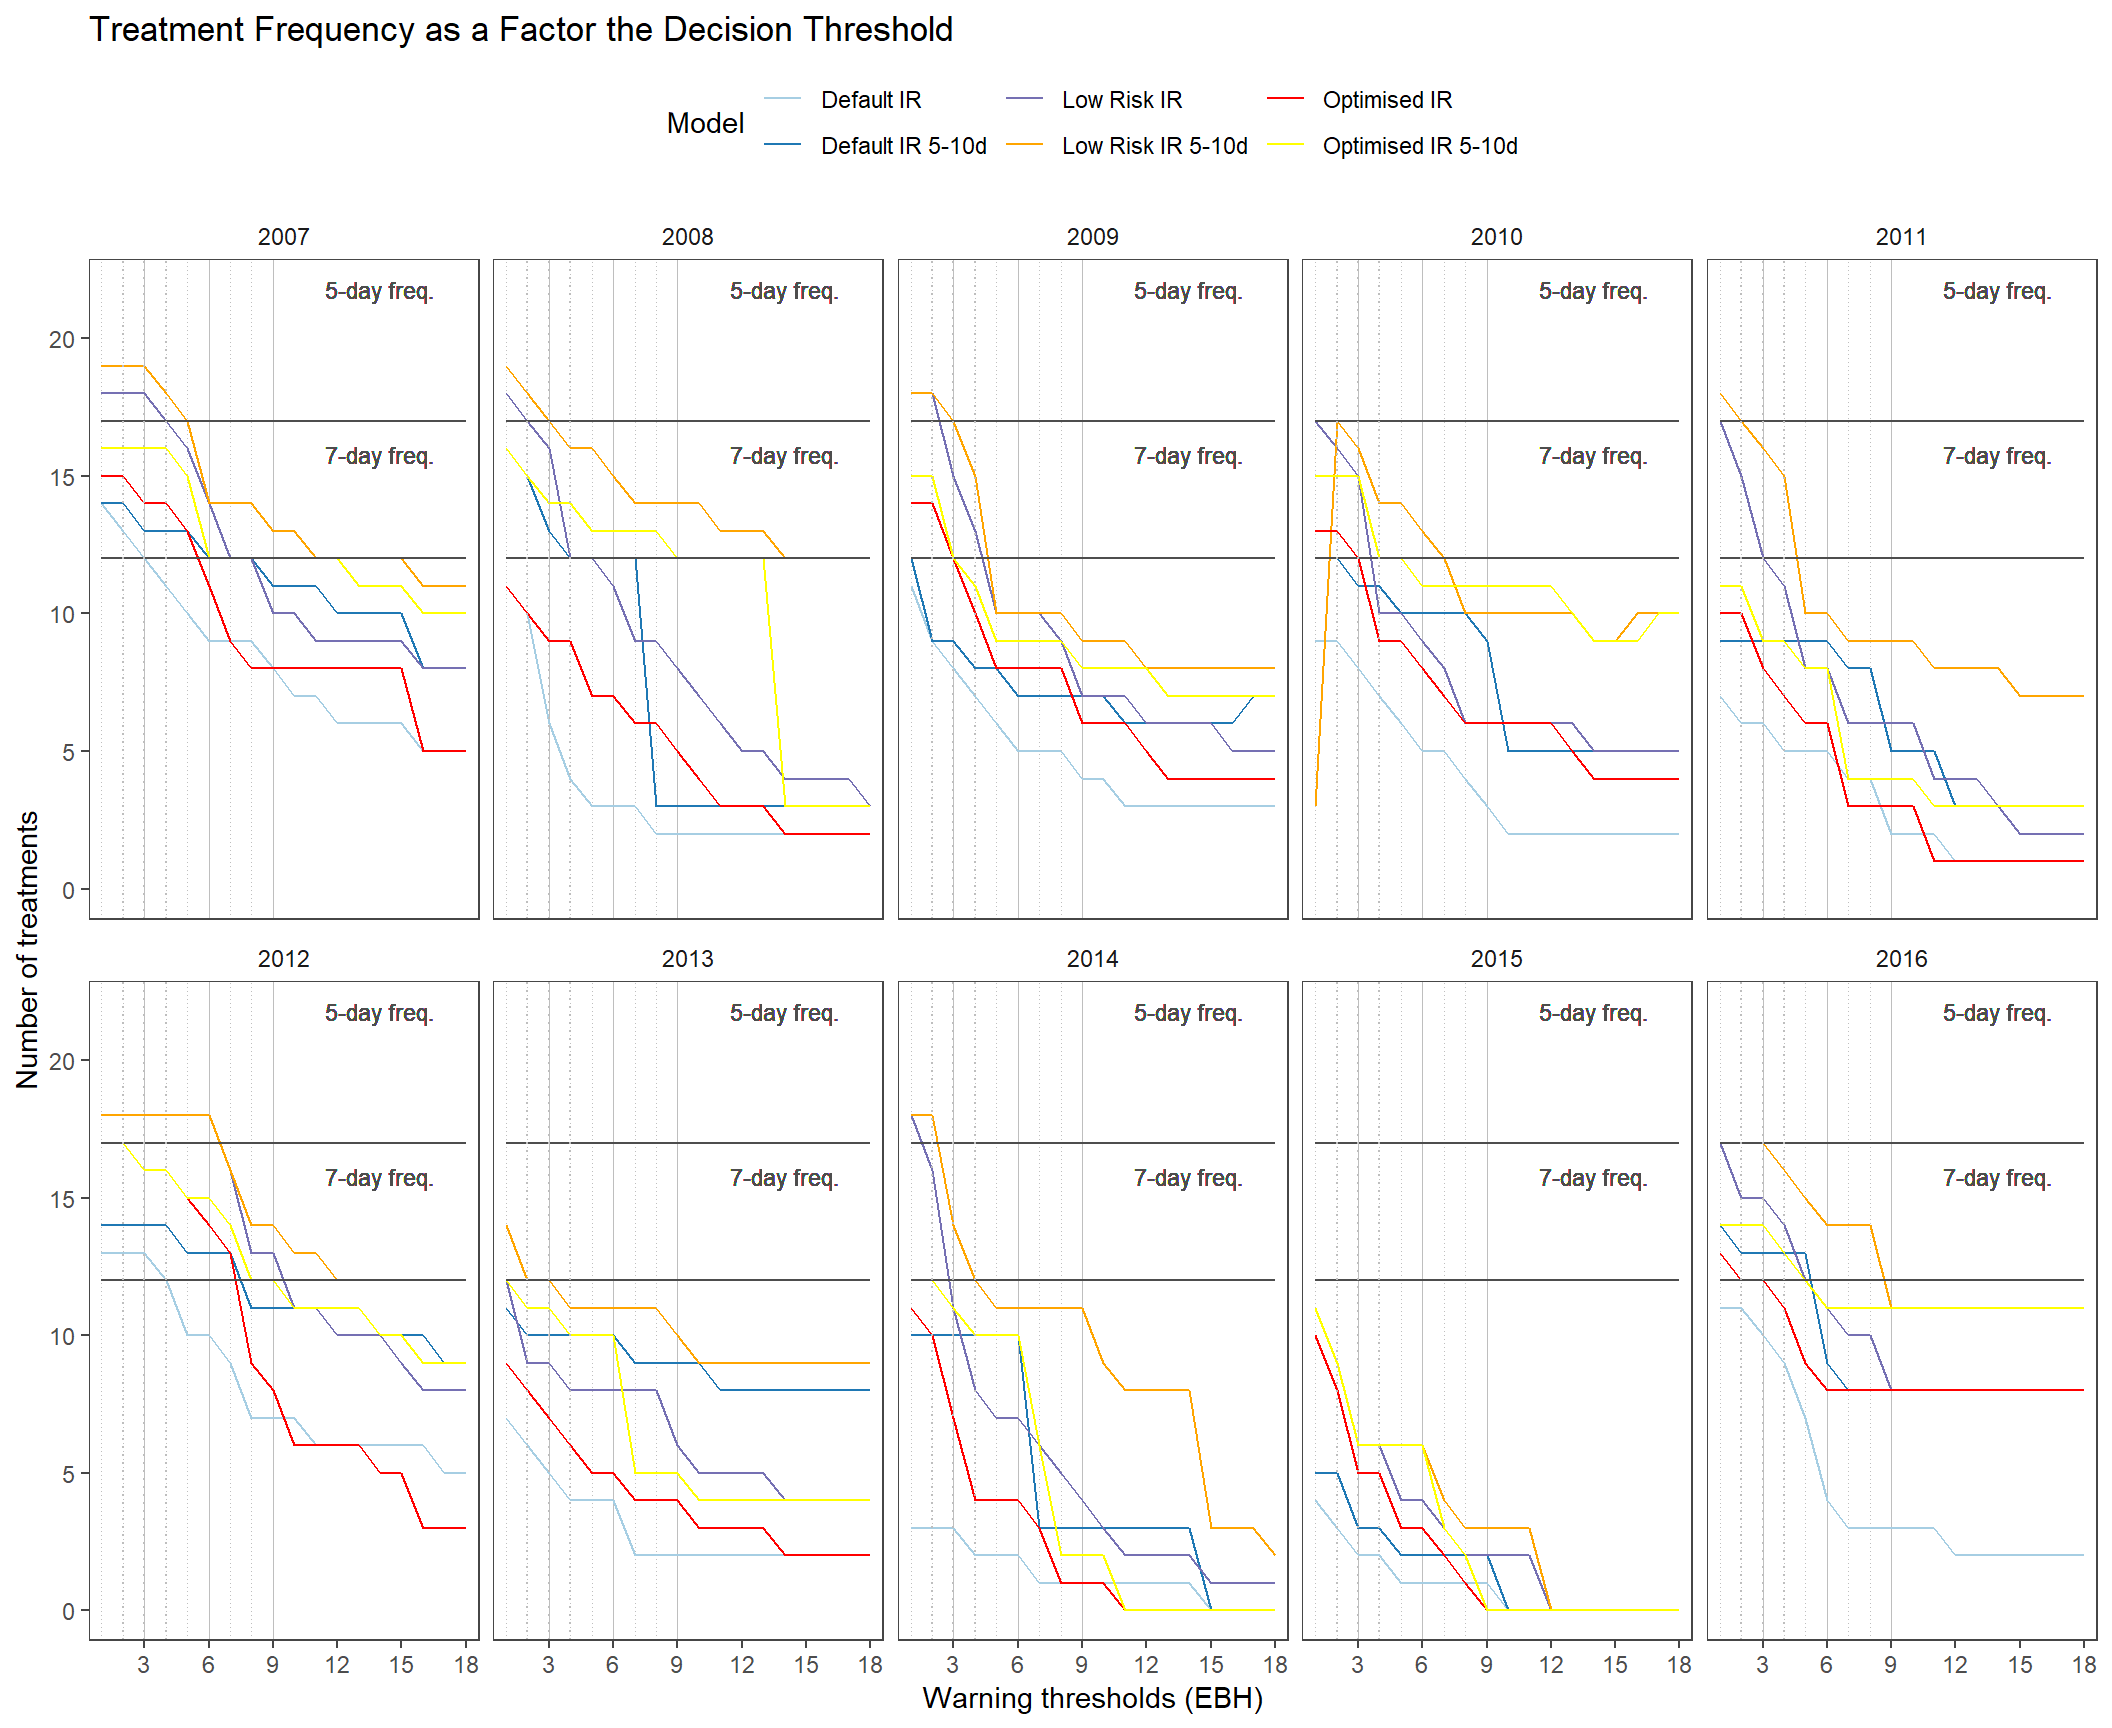
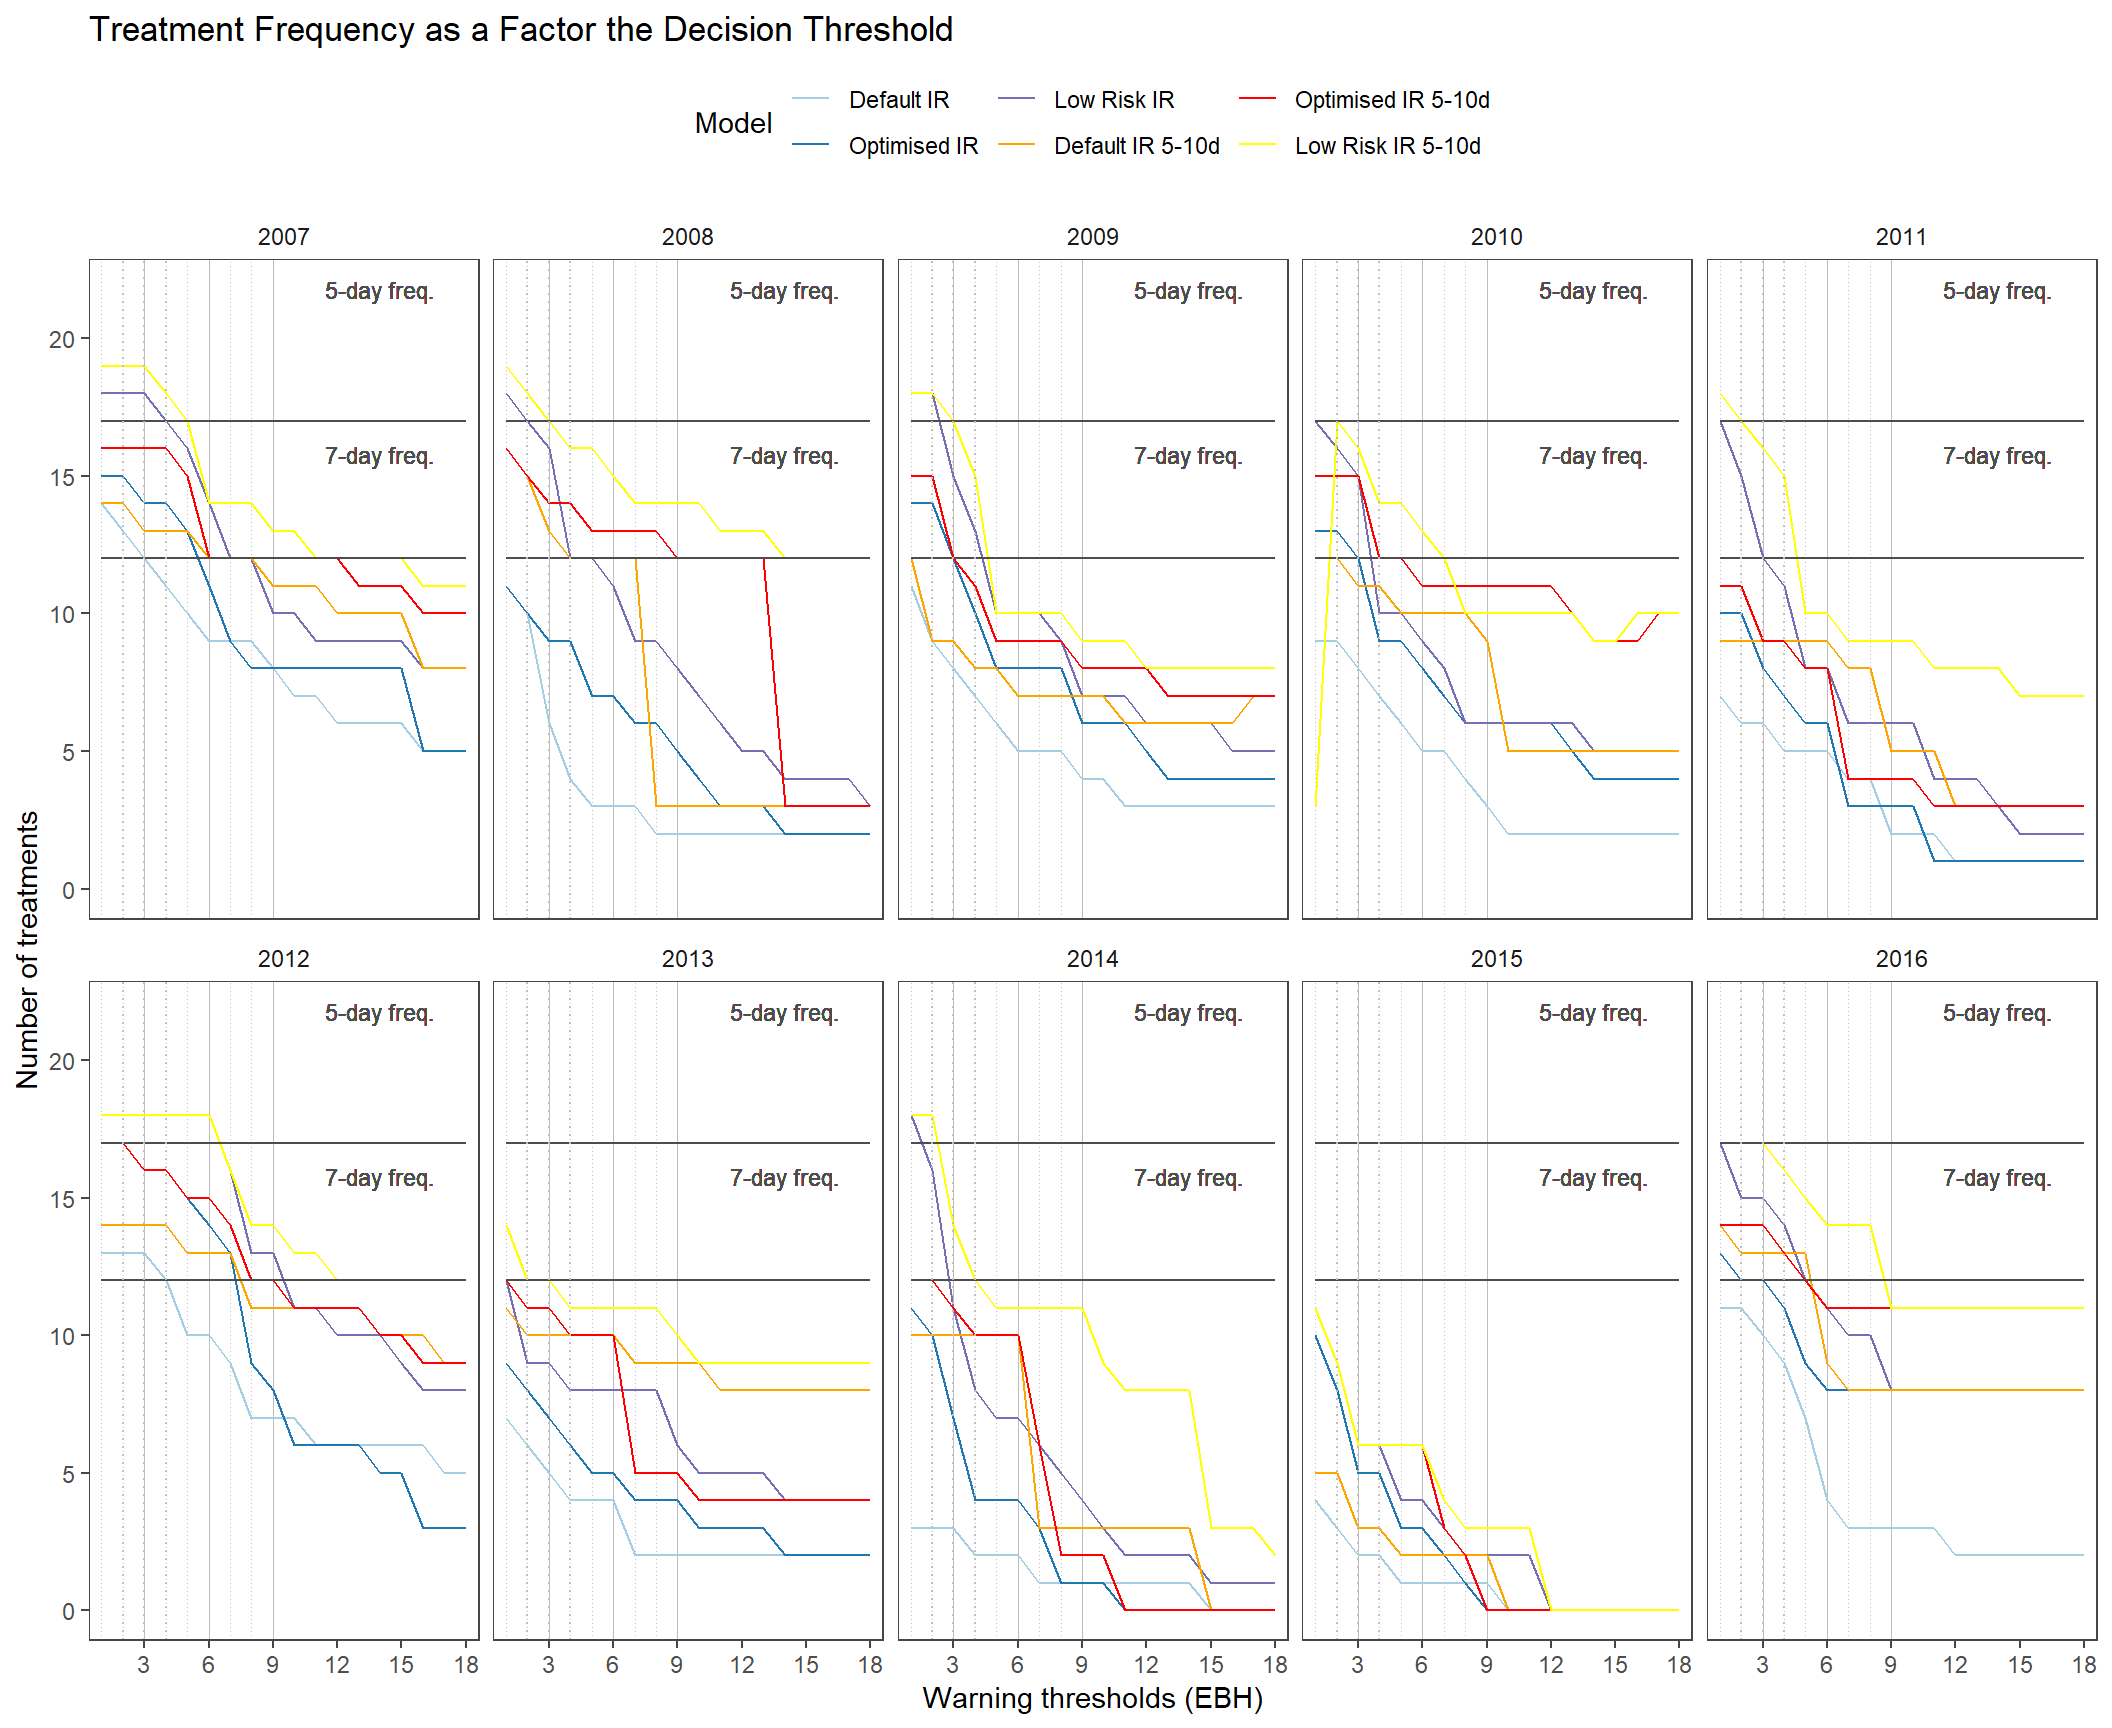
nik 3

diff --git a/docs/FungicideTreatments.html b/docs/FungicideTreatments.html
@@ -504,7 +504,7 @@ if (any(as.numeric(packages_load) == 0)) {
 </div>
 <div id="the-rationale" class="section level1">
 <h1>The Rationale</h1>
-<p>The cop risk prediction model is useful only if it provides provides same level of protection as the standard practice, while reducing necessary costs and labor. It was evident that the Irish Rules with their default variable thresholds were to conservative and failed to prove as sustainable solution for the disease forecasting.<br />
+<p>The crop risk prediction model is useful only if it provides same level of protection as the standard practice, while reducing necessary costs and labor. It was evident that the Irish Rules with their default variable thresholds were to conservative and failed to prove as sustainable solution for the disease forecasting.<br />
 Two alternative model parametrisations are proposed and in this section we will implement a theoretical study to evaluate the usefulness with regard to their their potential to save fungicide applications. The performance is evaluated in two ways, as a reduction of: 1. Number of treatments: + With minimum window of 5 days between treatments + With minimum of 5 and maximum of 10 days between treatments 2. Dose reduction based on 7 day calendar treatment</p>
 </div>
 <div id="cut-off-dates" class="section level1">
@@ -870,7 +870,7 @@ clusterEvalQ(cl, library(&quot;tidyverse&quot;, quietly = TRUE, verbose = FALSE)
   cl = cl
   )
 begin- Sys.time() #check the duration of the pcontrol_evaless in the console</code></pre>
-<pre><code>## Time difference of -5.407548 secs</code></pre>
+<pre><code>## Time difference of -5.147242 secs</code></pre>
 <pre class="r"><code>stopCluster(cl)</code></pre>
 <p>Melt the data frame.</p>
 <pre class="r"><code>control_eval_long &lt;- 
@@ -938,20 +938,29 @@ control_eval_long %&gt;% head() %&gt;% pander()</code></pre>
 </table>
 <pre class="r"><code>control_eval_long %&gt;% 
 # control_eval_long%&gt;% 
-  mutate(programme = ifelse(programme== &quot;ir&quot;, &quot;Default IR&quot;, 
-                            ifelse(programme== &quot;ir_opt&quot;, &quot;Optimised IR&quot;,
-                                   ifelse(programme == &quot;ir_low_risk&quot;, &quot;Low Risk IR&quot;,
-                                          ifelse(programme== &quot;w_ir&quot;, &quot;Default IR 5-10d&quot;,
-                                                 ifelse(programme== &quot;w_ir_opt&quot;, &quot;Optimised IR 5-10d&quot;,
-                                                        ifelse(programme == &quot;w_ir_low_risk&quot;, &quot;Low Risk IR 5-10d&quot;,&quot;&quot;))))))) %&gt;% 
-mutate(programme = factor(programme
-                          # , levels = (&quot;Default IR&quot;,&quot;Optimised IR&quot;, &quot;Low Risk IR&quot;,&quot;Default IR 5-10d&quot;,&quot;Optimised IR 5-10d&quot;,&quot;Low Risk IR 5-10d&quot;)
-                          )) %&gt;% 
-ggplot(., aes(factor(warning_thres), no_of_treatments)) +
+  mutate(programme = ifelse(programme== &quot;ir&quot;, &quot;a) Default IR&quot;, 
+                            ifelse(programme== &quot;ir_opt&quot;, &quot;b) Optimised IR&quot;,
+                                   ifelse(programme == &quot;ir_low_risk&quot;, &quot;c) Low Risk IR&quot;,
+                                          ifelse(programme== &quot;w_ir&quot;, &quot;d) Default IR 5-10d&quot;,
+                                                 ifelse(programme== &quot;w_ir_opt&quot;, &quot;e) Optimised IR 5-10d&quot;,
+                                                        ifelse(programme == &quot;w_ir_low_risk&quot;, &quot;f) Low Risk IR 5-10d&quot;,&quot;&quot;))))))) %&gt;% 
+  mutate(programme = factor(
+    programme,
+    levels = c(
+    &quot;a) Default IR&quot;,
+    &quot;b) Optimised IR&quot;,
+    &quot;c) Low Risk IR&quot;,
+    &quot;d) Default IR 5-10d&quot;,
+    &quot;e) Optimised IR 5-10d&quot;,
+    &quot;f) Low Risk IR 5-10d&quot;
+    )
+    )) %&gt;%
+  mutate(Years = factor(year_var)) %&gt;% 
+    ggplot(., aes(factor(warning_thres), no_of_treatments)) +
   geom_vline(xintercept=seq(1,9,1), size = 0.2, color = &quot;gray&quot;, linetype=&quot;dotted&quot;)+
   geom_vline(xintercept=seq(3,9,3), size = 0.2, color = &quot;gray&quot;, linetype=&quot;solid&quot;)+
   # geom_boxplot(width = 0.4, show.legend=FALSE) +
-  geom_jitter(aes(color = factor(year_var)),
+  geom_jitter(aes(color = Years),
               position = position_jitter(width = 0.1),
               # colour = &quot;black&quot;,
               alpha = 0.6,
@@ -959,10 +968,10 @@ ggplot(., aes(factor(warning_thres), no_of_treatments)) +
   ) +
   geom_line(aes(warning_thres, calendar_seven),colour = gray.colors(2)[1])+
   geom_label(aes(14,calendar_seven+0.8 , label= &quot;7-day freq.&quot;), 
-             colour = gray.colors(2)[1], fill = NA, label.size = NA, family = &quot;Helvetica&quot;, size = 3) +
+             colour = gray.colors(2)[1], fill = NA, label.size = NA, size = 3) +
   geom_line(aes(warning_thres, calendar_five),colour = gray.colors(2)[1])+
   geom_label(aes(14,calendar_five+0.8, label= &quot;5-day freq.&quot;), 
-             colour = gray.colors(2)[1], fill = NA, label.size = NA, family = &quot;Helvetica&quot;, size = 3) +
+             colour = gray.colors(2)[1], fill = NA, label.size = NA, size = 3) +
   geom_smooth(method = &quot;loess&quot;,
               se = FALSE,
               color = gray.colors(2)[1],
@@ -973,6 +982,7 @@ ggplot(., aes(factor(warning_thres), no_of_treatments)) +
   xlab(&quot;Warning thresholds (EBH)&quot;) +
   ylab(&quot;Number of treatments&quot;) +
   scale_x_discrete(breaks=seq(0, 18, 3)) +
+  theme(legend.position = &quot;top&quot;)+
   theme_article()</code></pre>
 <p><img src="images/plot_models-1.png" width="1056" style="display: block; margin: auto;" /></p>
 <p>The figure shows how do the decision thresholds of the three model versions differ from the calendar spray programmes. The dots represent the number of treatments in relation to corresponding warning threshold, where each dot represents one year. If the fitted smoothed line is above the estimated calendar frequency line, the model recommends more treatments than the usual standard calendar programme.</p>
@@ -985,9 +995,18 @@ ggplot(., aes(factor(warning_thres), no_of_treatments)) +
                                           ifelse(programme== &quot;w_ir&quot;, &quot;Default IR 5-10d&quot;,
                                                  ifelse(programme== &quot;w_ir_opt&quot;, &quot;Optimised IR 5-10d&quot;,
                                                         ifelse(programme == &quot;w_ir_low_risk&quot;, &quot;Low Risk IR 5-10d&quot;,&quot;&quot;))))))) %&gt;% 
-mutate(programme = factor(programme
-                          # , levels = (&quot;Default IR&quot;,&quot;Optimised IR&quot;, &quot;Low Risk IR&quot;,&quot;Default IR 5-10d&quot;,&quot;Optimised IR 5-10d&quot;,&quot;Low Risk IR 5-10d&quot;)
-                          )) %&gt;% 
+  mutate(programme = factor(
+    programme,
+    levels = c(
+    &quot;Default IR&quot;,
+    &quot;Optimised IR&quot;,
+    &quot;Low Risk IR&quot;,
+    &quot;Default IR 5-10d&quot;,
+    &quot;Optimised IR 5-10d&quot;,
+    &quot;Low Risk IR 5-10d&quot;
+    )
+    )) %&gt;%
+  mutate(Years = factor(year_var)) %&gt;% 
 ggplot(., aes(factor(warning_thres), no_of_treatments, group =programme, colour =programme)) +
   geom_vline(xintercept=seq(1,9,1), size = 0.2, color = &quot;gray&quot;, linetype=&quot;dotted&quot;)+
   geom_vline(xintercept=seq(3,9,3), size = 0.2, color = &quot;gray&quot;, linetype=&quot;solid&quot;)+
@@ -995,11 +1014,11 @@ ggplot(., aes(factor(warning_thres), no_of_treatments, group =programme, colour 
   geom_line(aes())+
   geom_line(aes(warning_thres, 12),colour = gray.colors(2)[1])+
   geom_label(aes(14,calendar_seven+0.8 , label= &quot;7-day freq.&quot;), 
-             colour = gray.colors(2)[1], fill = NA, label.size = NA, family = &quot;Helvetica&quot;, size = 3) +
+             colour = gray.colors(2)[1], fill = NA, label.size = NA, size = 3) +
   geom_line(aes(warning_thres, 17),colour = gray.colors(2)[1])+
   geom_label(aes(14,calendar_five+0.8, label= &quot;5-day freq.&quot;), 
-             colour = gray.colors(2)[1], fill = NA, label.size = NA, family = &quot;Helvetica&quot;, size = 3) +
-  facet_wrap(~year_var, ncol = 5)+
+             colour = gray.colors(2)[1], fill = NA, label.size = NA, size = 3) +
+  facet_wrap(~Years, ncol = 5)+
   ggtitle(&quot;Treatment Frequency as a Factor the Decision Threshold&quot;) +
   theme(strip.text.y = element_blank())+
   xlab(&quot;Warning thresholds (EBH)&quot;) +
